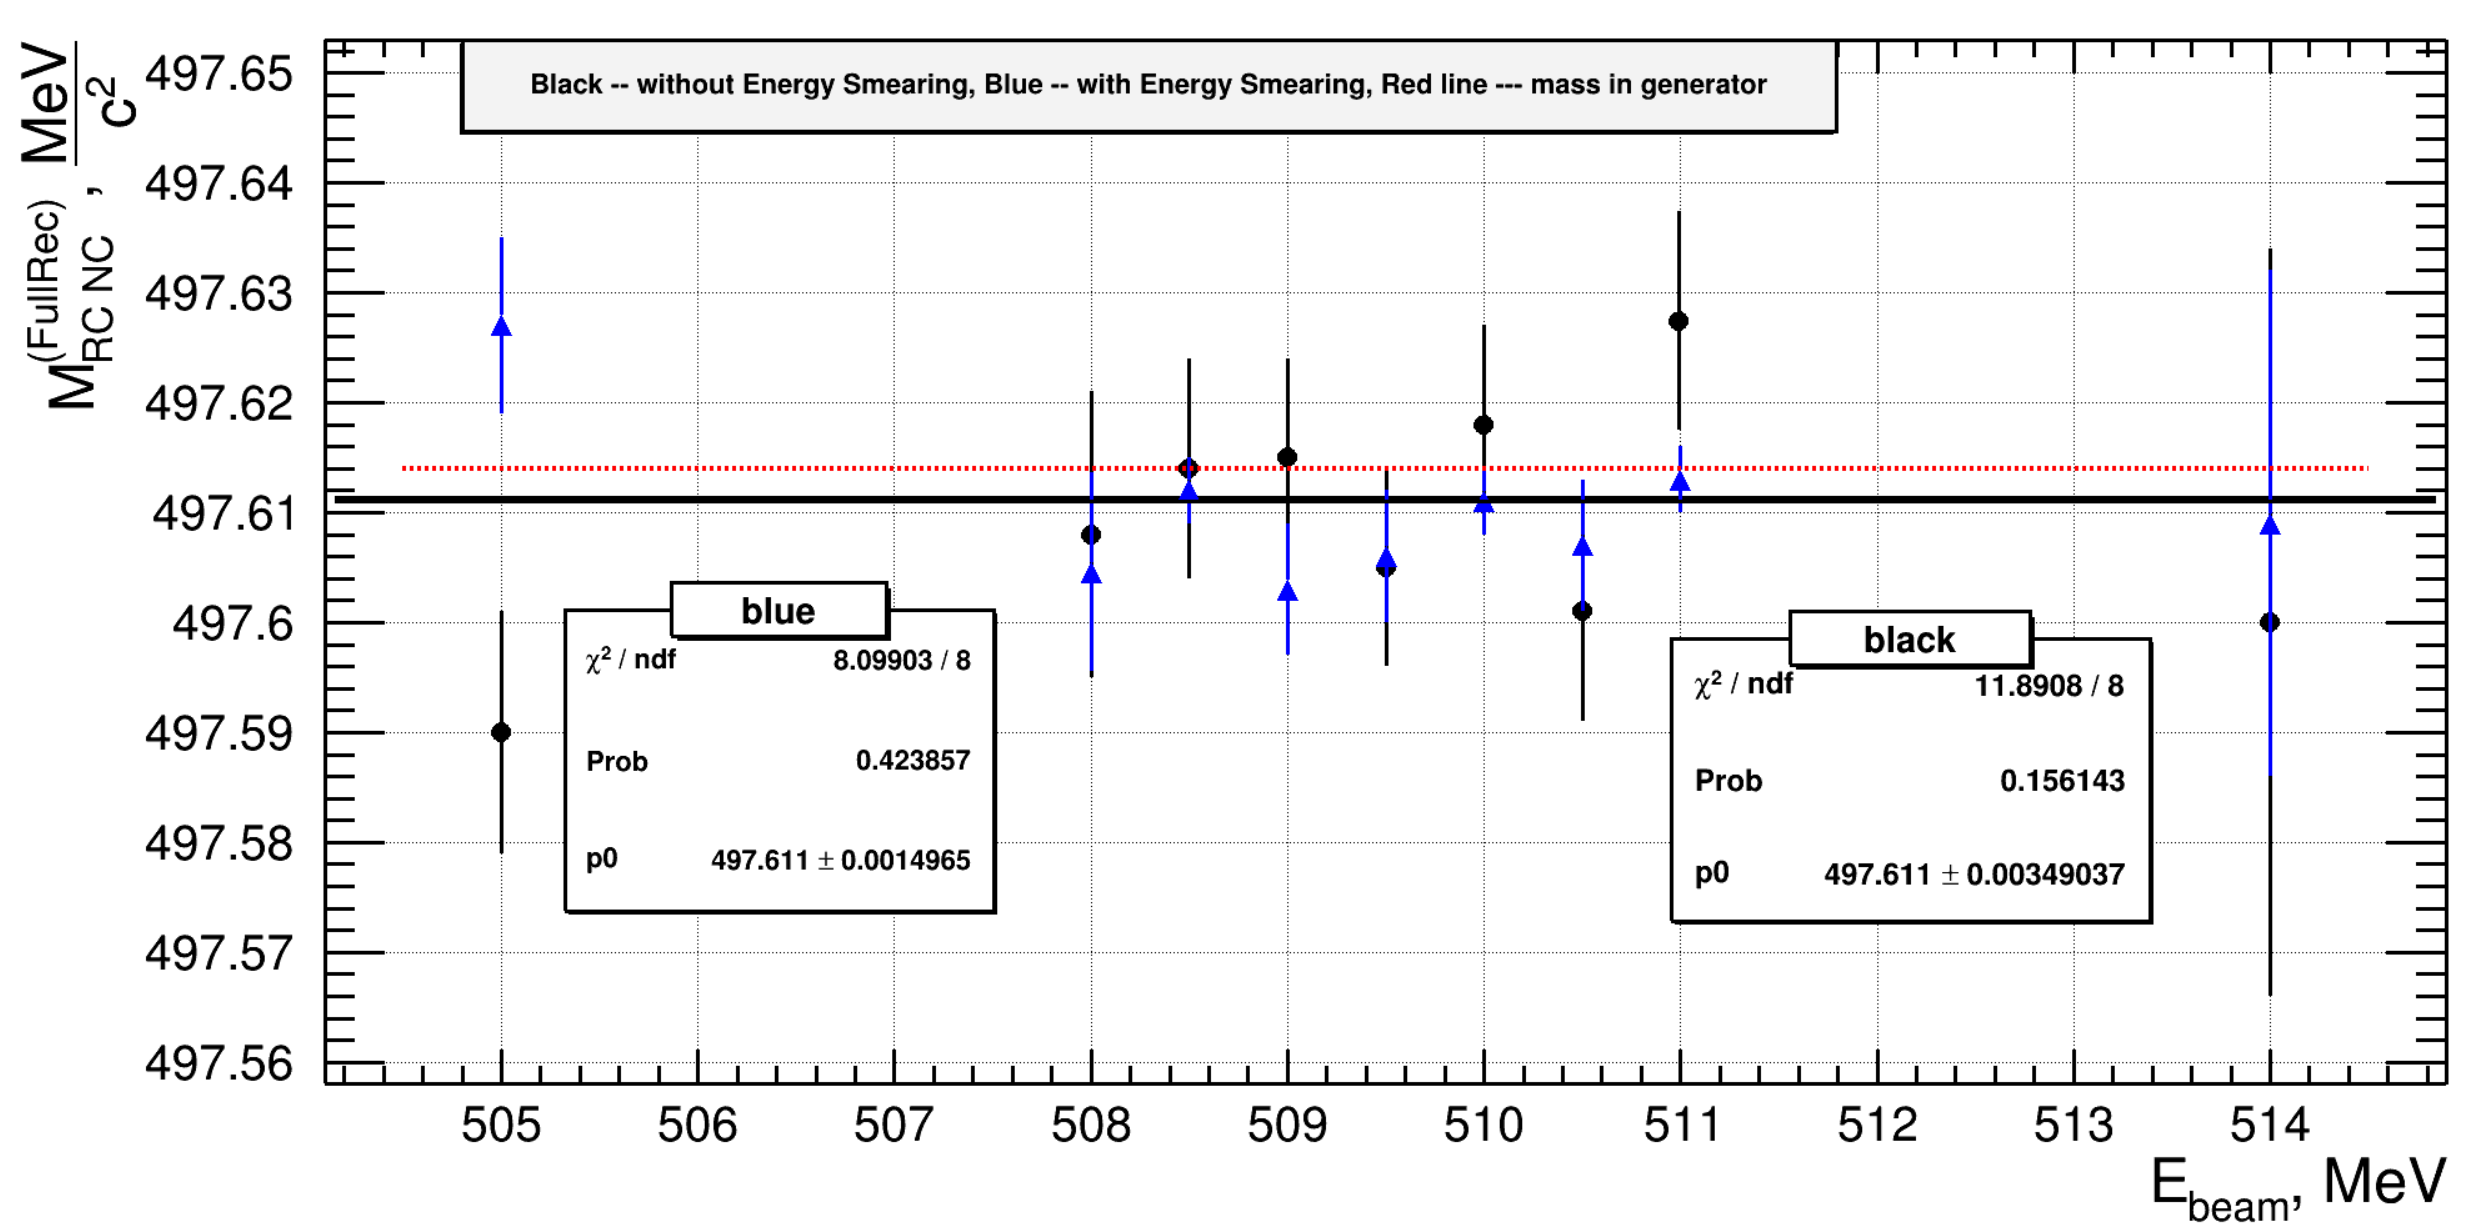
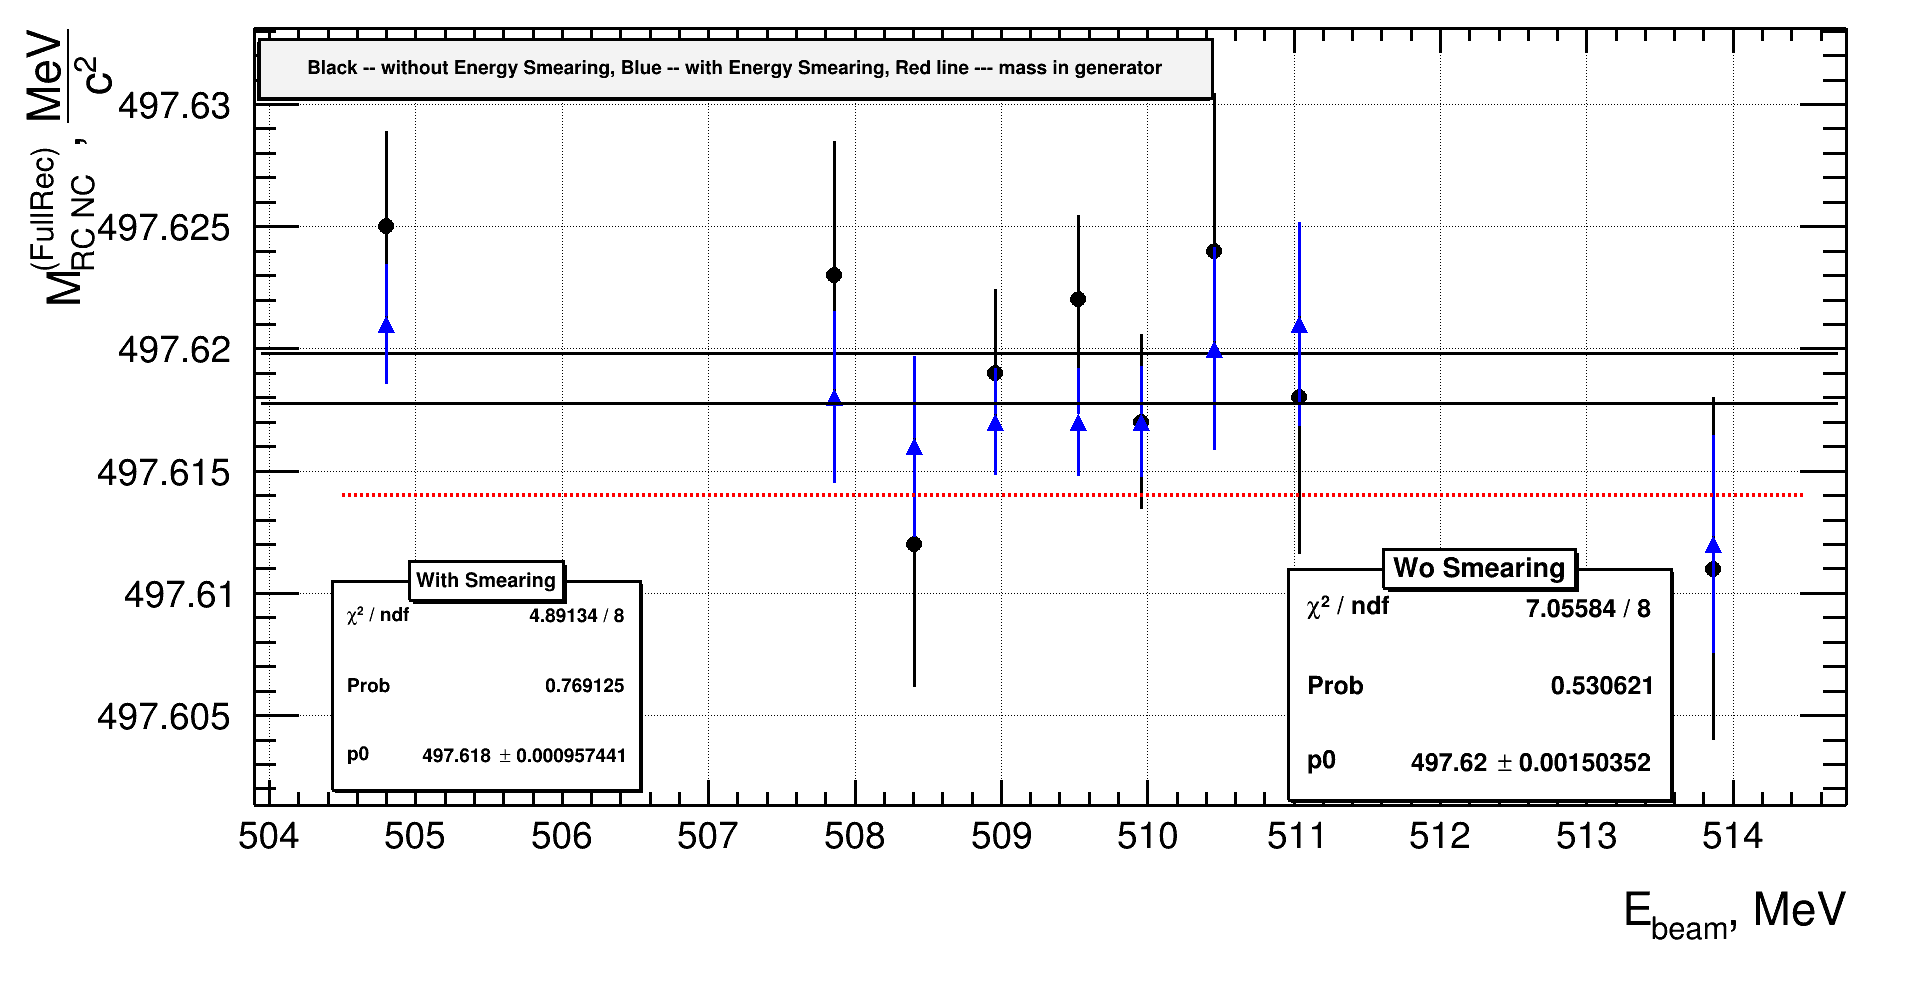
New Results.

diff --git a/Drawing Scripts/MassVsE.cpp b/Drawing Scripts/MassVsE.cpp
@@ -4,6 +4,7 @@
 #include "TGaxis.h"
 #include "TAxis.h"
 #include "TCanvas.h"
+#include "TLatex.h"
 
 int MassVsE()
 {
@@ -14,116 +15,124 @@ int MassVsE()
 * Prev results:
 ******************************
 */ 
-    std::vector<Float_t> vMPDG = {497.742, 497.661, 497.625, 497.634, 497.583, 497.607};
-    std::vector<Float_t> vMPDGerr = {0.085, 0.033, 0.031, 0.024, 0.021, 0.017};
-    std::vector<Float_t> vExpNum = {505, 506, 507, 508, 509, 510};
+    std::vector<Float_t> vMPDG = {497.742, 497.661, 497.625, 497.583, 497.607, 497.577, 0};
+    std::vector<Float_t> vMPDGerr = {0.085, 0.033, 0.031, 0.024, 0.021, 0.017, 0.02, 0};
+    std::vector<Float_t> vExpNum = {505, 506, 507, 508, 509, 510, 520};
     TGraphErrors grMPDG(vMPDG.size(), vExpNum.data(), vMPDG.data(), zeroes.data(), vMPDGerr.data());
-    // grMPDG.DrawClone("same AP");
+    grMPDG.GetYaxis()->SetTitle("M_{K^{0}}, MeV/c^{2}");
+    grMPDG.GetYaxis()->CenterTitle(true);
+    grMPDG.GetXaxis()->SetTickLength(0.);
+    grMPDG.GetXaxis()->SetNdivisions(0);
+    TLatex *latex1 = new TLatex(grMPDG.GetX()[0], grMPDG.GetY()[0],"       CMD '85"); 
+    TLatex *latex2 = new TLatex(grMPDG.GetX()[1], grMPDG.GetY()[1],"       CMD '87"); 
+    TLatex *latex3 = new TLatex(grMPDG.GetX()[2], grMPDG.GetY()[2],"       NA48 '02"); 
+    TLatex *latex4 = new TLatex(grMPDG.GetX()[3], grMPDG.GetY()[3],"       KLOE '07"); 
+    TLatex *latex5 = new TLatex(grMPDG.GetX()[4], grMPDG.GetY()[4],"       CLEO-c data '14"); 
+    TLatex *latex6 = new TLatex(grMPDG.GetX()[5], grMPDG.GetY()[5],"       This work"); 
+    latex1->SetTextAlign(10);
+    latex2->SetTextAlign(10);
+    latex3->SetTextAlign(10);
+    latex4->SetTextAlign(10);
+    latex5->SetTextAlign(10);
+    latex6->SetTextAlign(10);
+
+    latex1->SetTextAngle(90);
+    latex2->SetTextAngle(90);
+    latex3->SetTextAngle(90);
+    latex4->SetTextAngle(90);
+    latex5->SetTextAngle(90);
+    latex6->SetTextAngle(90);
+
+    grMPDG.GetListOfFunctions()->Add(latex1); 
+    grMPDG.GetListOfFunctions()->Add(latex2); 
+    grMPDG.GetListOfFunctions()->Add(latex3); 
+    grMPDG.GetListOfFunctions()->Add(latex4); 
+    grMPDG.GetListOfFunctions()->Add(latex5); 
+    grMPDG.GetListOfFunctions()->Add(latex6); 
+
+    grMPDG.GetXaxis()->SetRangeUser(505, 510);
+    grMPDG.GetYaxis()->SetRangeUser(497.54, 497.73);
+    // grMPDG.DrawClone("AP");
 
 /*
 ******************************
 * Mass vs E_beam in Exp:
 ******************************
 */ 
-
-    // std::vector<Float_t> vM_Exp = {497.545, 497.566, 497.539, 497.547, 497.544, 497.571, 497.579, 497.566, 497.6};
-    // std::vector<Float_t> vM_Exp = {497.632, 497.608, 497.585, 497.596, 497.604, 497.619, 497.62, 497.597, 497.635};
-    std::vector<Float_t> vM_Exp = {497.571, 497.549, 497.527, 497.539, 497.538, 497.55, 497.545, 497.517, 497.542};
-
-    std::vector<Float_t> vM_Exp2 = {497.577, 497.568, 497.533, 497.554, 497.544, 497.57, 497.589, 497.568, 497.604};
-    std::vector<Float_t> vM_Exp_vis = {497.677, 497.667, 497.622, 497.634, 497.615, 497.686, 497.78, 497.902, 499.057};
-
-    std::vector<Float_t> vMerrExp = {0.036, 0.014, 0.011, 0.008, 0.007, 0.01, 0.013, 0.014, 0.029};
-
-    std::vector<Float_t> vRC = {497.652, 497.647, 497.638, 497.627, 497.627, 497.679, 497.761, 497.912, 499.053};
-    // std::vector<Float_t> vE = {505, 508, 508.5, 509, 509.5, 510, 510.5, 511, 514};
     std::vector<Float_t> vE = {504.8, 507.862, 508.404, 508.957, 509.528, 509.956, 510.458, 511.035, 513.864};
-    
-
+    std::vector<Float_t> vM_Exp = {497.556, 497.573, 497.563, 497.562, 497.562, 497.597, 497.596, 497.595, 497.592};
+    std::vector<Float_t> vMerrExp = {0.039, 0.015, 0.011, 0.011, 0.009, 0.01, 0.011, 0.013, 0.045};
     TGraphErrors grRCNC_exp(vM_Exp.size(), vE.data(), vM_Exp.data(), zeroes.data(), vMerrExp.data());
-    TGraphErrors grRCNC_exp2(vM_Exp.size(), vE.data(), vM_Exp2.data(), zeroes.data(), vMerrExp.data());
+
+    std::vector<Float_t> vM_Exp_NoEnergyCorr = {497.612, 497.572, 497.564, 497.569, 497.554, 497.589, 497.608, 497.586, 497.601};
+    std::vector<Float_t> vMerrExp_NoEnergyCorr = {0.039, 0.015, 0.011, 0.011, 0.009, 0.01, 0.011, 0.013, 0.045};
+    TGraphErrors grRCNC_exp_NoEnergyCorr(vM_Exp_NoEnergyCorr.size(), vE.data(), vM_Exp_NoEnergyCorr.data(), 
+                                        zeroes.data(), vMerrExp_NoEnergyCorr.data());
+    
+    std::vector<Float_t> vM_Exp_vis = {497.677, 497.667, 497.622, 497.634, 497.615, 497.686, 497.78, 497.902, 499.057};
     TGraphErrors grNC_exp(vM_Exp.size(), vE.data(), vM_Exp_vis.data(), zeroes.data(), vMerrExp.data());
 
-    TGraphErrors grRC(vM_Exp.size(), vE.data(), vRC.data(), zeroes.data(), zeroes.data());
-
-    grRCNC_exp.SetTitle("Black -- with Energy controll, Blue -- without");
+    grRCNC_exp.SetTitle("Black -- with Energy correction, Blue -- without");
     grRCNC_exp.GetXaxis()->SetTitle("E_{beam}, MeV");
     grRCNC_exp.GetYaxis()->SetTitle("M^{(FullRec)}_{RC NC RecCor}, #frac{MeV}{c^{2}}");
     grRCNC_exp.GetYaxis()->SetTitleOffset(1.2);
     grRCNC_exp.SetName("EnControl");
-    grRCNC_exp.SetMarkerSize(2);
+    grRCNC_exp.SetMarkerSize(1.5);
     grRCNC_exp.Fit("pol0", "ME");
-    
-    grRCNC_exp2.SetName("NoEnControl");
-    grRCNC_exp2.SetMarkerColor(kBlue);
-    grRCNC_exp2.SetLineColor(kBlue);
-    grRCNC_exp2.SetMarkerStyle(22);
-    grRCNC_exp2.SetMarkerSize(2);
-    grRCNC_exp2.Fit("pol0", "ME+");
 
-    grRC.SetName("RC");
-    grRC.SetMarkerColor(kBlue);
-    grRC.SetLineColor(kBlue);
-    grRC.SetMarkerStyle(22);
-    grRC.SetMarkerSize(2);
+    grRCNC_exp_NoEnergyCorr.SetName("NoEnControl");
+    grRCNC_exp_NoEnergyCorr.SetMarkerSize(1.5);
+    grRCNC_exp_NoEnergyCorr.SetMarkerStyle(22);
+    grRCNC_exp_NoEnergyCorr.SetMarkerColor(kBlue);
+    grRCNC_exp_NoEnergyCorr.Fit("pol0", "ME");
+    // grRCNC_exp_NoEnergyCorr.SetLineColor(kBlue);
+    grRCNC_exp_NoEnergyCorr.GetFunction("pol0")->SetLineColor(kBlue);
 
     grRCNC_exp.DrawClone("AP");
-
+    // grRCNC_exp_NoEnergyCorr.DrawClone("same P");
     // grNC_exp.DrawClone("AP");
-    // grRC.DrawClone("P same");
-    // grRCNC_exp2.DrawClone("AP");
 
 /*
 ******************************
 * Mass vs E_beam in MC:
 ******************************
 */ 
-    // std::vector<Float_t> vM_MC_NoSmearing = {497.590, 497.608, 497.614, 497.615, 497.605, 497.618, 497.601, 497.635, 497.600};
-    // std::vector<Float_t> vM_MC_NoSmearingErr = {0.011, 0.013, 0.010, 0.009, 0.009, 0.009, 0.010, 0.010, 0.034};
+    std::vector<Float_t> vM_MC_NoSmearing = {497.625, 497.623, 497.612, 497.619, 497.622, 497.617, 497.624, 497.618, 497.611};
+    std::vector<Float_t> vM_MC_NoSmearingErr = {0.00389227, 0.00550037, 0.00584149, 0.00345417, 0.00345497, 0.00358939, 0.00645167, 0.00640343, 0.00700427};
 
-    // std::vector<Float_t> vM_MC_WithSmearing = {497.627, 497.604, 497.612, 497.603, 497.606, 497.611, 497.607, 497.613,  497.609};
-    // std::vector<Float_t> vM_MC_WithSmearingErr = {0.008, 0.009 , 0.003, 0.006, 0.006, 0.003, 0.006, 0.003, 0.023};
+    std::vector<Float_t> vM_MC_WithSmearing = {497.621, 497.618, 497.616, 497.617, 497.617, 497.617, 497.62, 497.621, 497.612};
+    std::vector<Float_t> vM_MC_WithSmearingErr = {0.00246028, 0.00351182, 0.00370322, 0.00218761, 0.00221447, 0.00227956, 0.00414764, 0.00416976, 0.00444108};
     
-    // std::vector<Float_t> vM_MC_WrongEnergy = {497.575, 497.582, 497.584, 497.586, 497.588, 497.593};
-    // std::vector<Float_t> vM_MC_WrongEnergyErr = {0.002, 0.002, 0.003, 0.003, 0.003, 0.003};
-    // std::vector<Float_t> vE_short = {508.5, 509, 509.5, 510, 510.5, 511};
+    TGraphErrors grMC_NoSmearing(vE.size(), vE.data(), vM_MC_NoSmearing.data(), zeroes.data(), vM_MC_NoSmearingErr.data());
+    TGraphErrors grMC_WithSmearing(vE.size(), vE.data(), vM_MC_WithSmearing.data(), zeroes.data(), vM_MC_WithSmearingErr.data());
 
-    // TGraphErrors grMC_NoSmearing(vE.size(), vE.data(), vM_MC_NoSmearing.data(), zeroes.data(), vM_MC_NoSmearingErr.data());
-    // TGraphErrors grMC_WithSmearing(vE.size(), vE.data(), vM_MC_WithSmearing.data(), zeroes.data(), vM_MC_WithSmearingErr.data());
-    // TGraphErrors grMC_WrongEnergy(vE_short.size(), vE_short.data(), vM_MC_WrongEnergy.data(), zeroes.data(), vM_MC_WrongEnergyErr.data());
+    TLine massKline(504.5, 497.614, 514.5, 497.614);
+    massKline.SetLineStyle(2);
+    massKline.SetLineWidth(4);
+    massKline.SetLineColor(kRed);
 
-    // TLine massKline(504.5, 497.614, 514.5, 497.614);
-    // massKline.SetLineStyle(2);
-    // massKline.SetLineWidth(4);
-    // massKline.SetLineColor(kRed);
-
-    // grMC_NoSmearing.SetTitle("Black -- without Energy Smearing, Blue -- with Energy Smearing, Red line --- mass in generator");
-    // grMC_NoSmearing.GetXaxis()->SetTitle("E_{beam}, MeV");
-    // grMC_NoSmearing.GetYaxis()->SetTitle("M^{(FullRec)}_{RC NC}, #frac{MeV}{c^{2}}");
-    // grMC_NoSmearing.GetYaxis()->SetTitleOffset(1.2);
-    // grMC_NoSmearing.SetName("NoSmear");
-    // grMC_NoSmearing.SetMarkerSize(2);
-    // grMC_NoSmearing.Fit("pol0", "ME");
+    grMC_NoSmearing.SetTitle("Black -- without Energy Smearing, Blue -- with Energy Smearing, Red line --- mass in generator");
+    grMC_NoSmearing.GetXaxis()->SetTitle("E_{beam}, MeV");
+    grMC_NoSmearing.GetYaxis()->SetTitle("M^{(FullRec)}_{RC NC}, #frac{MeV}{c^{2}}");
+    grMC_NoSmearing.GetYaxis()->SetTitleOffset(1.2);
+    grMC_NoSmearing.SetName("NoSmear");
+    grMC_NoSmearing.SetMarkerSize(2);
+    grMC_NoSmearing.Fit("pol0", "ME");
     
-    // grMC_WithSmearing.SetName("Smear");
-    // grMC_WithSmearing.SetMarkerColor(kBlue);
-    // grMC_WithSmearing.SetLineColor(kBlue);
-    // grMC_WithSmearing.SetMarkerStyle(22);
-    // grMC_WithSmearing.SetMarkerSize(2);
-    // grMC_WithSmearing.Fit("pol0", "ME+");
-
-    // grMC_WrongEnergy.SetName("Smear");
-    // grMC_WrongEnergy.SetMarkerColor(kBlue);
-    // grMC_WrongEnergy.SetLineColor(kBlue);
-    // grMC_WrongEnergy.SetMarkerStyle(21);
-    // grMC_WrongEnergy.SetMarkerSize(2);
-    // grMC_WrongEnergy.Fit("pol0", "ME+");
-
-    // grMC_WrongEnergy.DrawClone("AP");
+    grMC_WithSmearing.SetTitle("Black -- without Energy Smearing, Blue -- with Energy Smearing, Red line --- mass in generator");
+    grMC_WithSmearing.GetXaxis()->SetTitle("E_{beam}, MeV");
+    grMC_WithSmearing.GetYaxis()->SetTitle("M^{(FullRec)}_{RC NC}, #frac{MeV}{c^{2}}");
+    grMC_WithSmearing.GetYaxis()->SetTitleOffset(1.2);
+    grMC_WithSmearing.SetName("Smear");
+    grMC_WithSmearing.SetMarkerColor(kBlue);
+    grMC_WithSmearing.SetLineColor(kBlue);
+    grMC_WithSmearing.SetMarkerStyle(22);
+    grMC_WithSmearing.SetMarkerSize(2);
+    grMC_WithSmearing.Fit("pol0", "ME+");
 
 
     // grMC_NoSmearing.DrawClone("AP");
-    // grMC_WithSmearing.DrawClone("AP");
+    // grMC_WithSmearing.DrawClone("same P");
     // massKline.DrawClone("same");
 
 /*
@@ -161,7 +170,7 @@ int MassVsE()
     
 /*
 ******************************
-* Mass_Cowboys - Mass_ Sailorsvs E_beam in EXP:
+* Mass_Cowboys - Mass_Sailors vs E_beam in EXP:
 ******************************
 */
     // std::vector<Float_t> vDiffM_Exp_cowboy_sailor = {-0.03, 0.015, -0.01, -0.025, -0.003, 0.009, 0.001, 0.014};

diff --git a/PhiMesonFit/KnXSec.cpp b/PhiMesonFit/KnXSec.cpp
@@ -1,3 +1,9 @@
+/**
+ * @author Parametrization and all values of parameters are taken from E.A.Kozyrev's article (https://arxiv.org/abs/1604.02981).
+ * Code was written by E.A.Kozyrev (e.a.kozyrev@inp.nsk.su) and was updated in terms of constants (pdg live, July 2023) 
+ * and readability by Daniil Ivanov (daniilivanov1606@gmail.com).
+*/
+
 #include <cmath>
 #include <complex>
 #include <TMath.h>
@@ -12,6 +18,18 @@
 #define alphafss 0.0072973525628
 #define pi 3.1415926535
 
+
+/**
+ * // Cross section: KnCrossSection(double *Ecms, double *par);
+ * // Form factor: KnFormFactor(double *Ecms, double *par);
+ * double M_phi = 1019.457; \\ par[0], MeV -- phi meson mass.
+ * double W_phi = 4.240; \\ par[1], MeV -- phi meson width.
+ * double W_phi_ee_B_phi_KsKl = 0.428e-03 // par[2], MeV -- \Gamma_{\phi->e^+e^-} * B_{\phi->KsKl} = 0.428 keV = 0.428e-03 MeV. 
+ * double g_rho_omega = 0.8; \\ par[3] -- g_{\rho, \omega} multiplicative factor for coupling constants  g_{\rho KsKl}, g_{\omega KsKl} (read more in the article).
+ * std::vector<double> params = {1019.457, 4.240, 0.428e-03, 0.8};
+ * // pass params as params.data().
+*/
+
 Double_t PointLikeKnCrossSection(Double_t s);
 Double_t RhoWidth(Double_t s);
 Double_t OmgWidth(Double_t s);
@@ -23,13 +41,13 @@ Double_t FAS_ASPO(Double_t TwoE);
 
 /** @param charge For Neutral kaons == -1. 
 */ 
-std::complex<double> KFF_total(double ss, const std::vector<double> par, double charge)
+std::complex<double> KFF_total(double Ecms, const std::vector<double> par, double charge)
 {
-    Double_t s = ss*ss;
+    Double_t s = Ecms*Ecms;
 
     Double_t MPhi = par[0];
     Double_t WPhi = par[1];
-    Double_t gb = par[2];
+    Double_t gb = par[2]; // Gamma * Branching
         
     Double_t Momega = 782.66;
     Double_t Mrho = 775.26;
@@ -96,15 +114,21 @@ std::complex<double> KFF_total(double ss, const std::vector<double> par, double 
 }
 
 /** @brief Set mode of KFF_total: -1 -- K0
- * @param ss s = 4 * E_beam^2.
+ * @param Ecms = 2 * E_beam MeV
  * @param par Vector of parameters that are used in phi -> KsKl cross section parametrization.
 */
-std::complex<double> KnFF_total(double ss, const std::vector<double> par)
-{ return KFF_total(ss,par,-1.); }
+std::complex<double> KnFF_total(double Ecms, const std::vector<double> par)
+{ return KFF_total(Ecms,par,-1.); }
 
-double KnCrossSection(double *ss, double *par)
+/**
+ * @note pass params as params.data().
+ * @param Ecms = 2 * E_beam MeV
+ * @param par Vector of parameters that are used in phi -> KsKl cross section parametrization.
+ * @returns Cross section in nb.
+*/
+double KnCrossSection(double *Ecms, double *par)
 {
-    double s = ss[0]*ss[0];
+    double s = Ecms[0]*Ecms[0];
     std::vector<double> par1;
     par1.push_back(par[0]);
     par1.push_back(par[1]);
@@ -121,7 +145,7 @@ double KnCrossSection(double *ss, double *par)
     par1.push_back(0.0);
     par1.push_back(0.0);
     
-    std::complex<double> ATot = KnFF_total(ss[0] ,par1);
+    std::complex<double> ATot = KnFF_total(Ecms[0], par1);
     double MPhi = par[0];
     double Fval = (std::norm(ATot))/pow(s,2.5)*C*pow(s/4.-mKn*mKn,1.5)/pow(MPhi*MPhi/4.-mKn*mKn,1.5); 
 
@@ -131,14 +155,15 @@ double KnCrossSection(double *ss, double *par)
 }
 
 /** @brief Evaluate form-factor of neutral kaon F(s), which is defined as 
- * sigma_{e+e- -> KsKl}(s) = sigma^{point-like}_{e+e- -> KsKl}(s) * |F(s)|^2.  
- * @param ss s = 4 * E_beam^2.
+ * sigma_{e+e- -> KsKl}(s) = sigma^{point-like}_{e+e- -> KsKl}(s) * |F(s)|^2.
+ * @note pass params as params.data().  
+ * @param Ecms = 2 * E_beam MeV
  * @param par Vector of parameters that are used in phi -> KsKl cross section parametrization.
  * @returns Form factor of neutral kaon.
 */
-std::complex<double> KnFormFactor(double *ss, double *par)
+std::complex<double> KnFormFactor(double *Ecms, double *par)
 {
-    double s = ss[0]*ss[0];
+    double s = Ecms[0]*Ecms[0];
     std::vector<double> par1;
     par1.push_back(par[0]);
     par1.push_back(par[1]);
@@ -155,7 +180,7 @@ std::complex<double> KnFormFactor(double *ss, double *par)
     par1.push_back(0.0);
     par1.push_back(0.0);
     
-    std::complex<double> ATot = KnFF_total(ss[0] ,par1);
+    std::complex<double> ATot = KnFF_total(Ecms[0] ,par1);
     double MPhi = par[0];
     auto ff =  ATot * sqrt(3 / (8. * alphafss * alphafss * pi * pow(MPhi*MPhi/4.-mKn*mKn, 1.5)));
 
@@ -421,21 +446,6 @@ Double_t FAS_ASPO(Double_t TwoE)
 
     return Fval;
 }
-
-
-/**
- * // Parametrization and all values of parameters are taken from E.A.Kozyrev's article (https://arxiv.org/abs/1604.02981).
- * // Code was written by E.A.Kozyrev (e.a.kozyrev@inp.nsk.su) and was updated in terms of constants (pdg live, July 2023) 
- * // and readability by Daniil Ivanov (daniilivanov1606@gmail.com).
- * Cross section: KnCrossSection(double *ss, double *par);
- * Form factor: KnFormFactor(double *ss, double *par);
- * double M_phi = 1019.457; \\ par[0], MeV -- phi meson mass.
- * double W_phi = 4.240; \\ par[1], MeV -- phi meson width.
- * double W_phi_ee_B_phi_KsKl = 0.428e-03 // par[2], MeV -- \Gamma_{\phi->e^+e^-} * B_{\phi->KsKl} = 0.428 keV = 0.428e-03 MeV. 
- * double g_rho_omega = 0.8; \\ par[3] -- g_{\rho, \omega} multiplicative factor for coupling constants  g_{\rho KsKl}, g_{\omega KsKl} (read more in the article).
- * std::vector<double> params = {1019.457, 4.240, 0.428e-03, 0.8};
- * // pas params as params.data().
-*/
 
 int KnXSec()
 {

diff --git a/EvalScripts/KsMassEval.cpp b/EvalScripts/KsMassEval.cpp
@@ -38,7 +38,7 @@ int KsMassEval()
     auto [mass, massErr] = handlerMC->Eval();
     std::cout << mass << " + " << massErr << std::endl;
     handlerMC->Draw("hMlnYpfx", {-0.4, 0.4});
-    // handlerMC->SaveHists("/hist/MC" + energyPoint + ".root");
+    handlerMC->SaveHists("/hist/MC" + energyPoint + ".root");
     // handlerMC->SaveSplines("C:/work/Science/BINP/Kaon Mass Measure/splines/spline_" + energyPoint + ".root");
     delete handlerMC;
 

diff --git a/EvalScripts/HandlerExp.hpp b/EvalScripts/HandlerExp.hpp
@@ -119,7 +119,7 @@ void HandlerExp::FillHists(bool useCorrectedEnergy)
     for(const auto &entry : goodEntries)
     {
         tree->GetEntry(entry);
-        if(fabs(data->ks.theta - TMath::Pi() / 2) > 0.5)
+        if(fabs(data->ks.theta - TMath::Pi() / 2) > 0.3)
         { continue; }
         
         auto lnY = log(data->Y);

diff --git a/EvalScripts/HandlerMC.hpp b/EvalScripts/HandlerMC.hpp
@@ -141,7 +141,7 @@ void HandlerMC::FillHists(bool useTrueEnergy)
     for(const auto &entry : goodEntries)
     {
         tree->GetEntry(entry);
-        if(fabs(data->ks.theta - TMath::Pi() / 2) > 0.5)
+        if(fabs(data->ks.theta - TMath::Pi() / 2) > 0.3)
         { continue; }
         
         auto lnY = log(data->Y);
